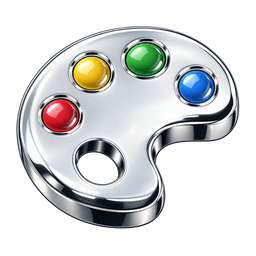
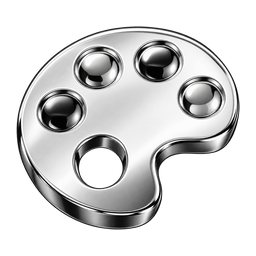
Use the Minimal paint palette for System

diff --git a/src/components/app/war/WarHudIcon.tsx b/src/components/app/war/WarHudIcon.tsx
@@ -233,7 +233,7 @@ const SYSTEM_REFRESHED_KEYS = new Set<ThemeIconKey>([
 ]);
 
 /** Bump when a file is redrawn in place, or browsers and the app keep the old art. */
-export const THEME_ICON_REVISION = '10';
+export const THEME_ICON_REVISION = '11';
 
 const TRANSPARENT_PNG_KEYS = new Set<ThemeIconKey>([
   'boost', 'second-wind', 'comment-anchor', 'trend-jacker', 'timeline-bomber',
